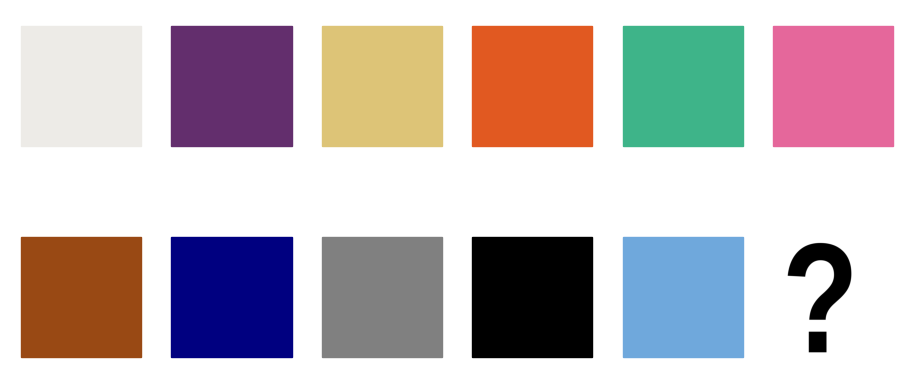
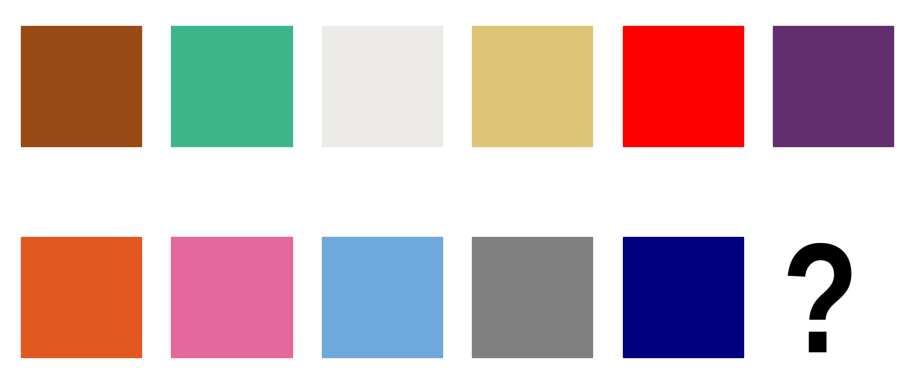
Added mobile semi-compatibility

diff --git a/templates/index.html b/templates/index.html
@@ -2,6 +2,7 @@
 <html>
 <head>
     <title>Album Colour Game</title>
+	
     <style>
         body {
     font-family: Arial, sans-serif;
@@ -330,11 +331,64 @@ button:hover {
     opacity: 1;
 }
 
+/* ===========================
+   Mobile / Small Screen Styles
+   =========================== */
+/* MOBILE STACKING */
+@media (max-width: 768px) {
+    .container {
+        flex-direction: column;
+        gap: 24px;
+        padding: 16px;
+    }
+
+    .sidebar, .main-column, .side-column {
+        flex: 1 1 100%;
+        max-width: 100%;
+        padding: 0;
+    }
+
+    .sidebar {
+        width: 100%;
+        border-right: none;
+        border-bottom: 1px solid #ddd;
+        margin-bottom: 16px;
+    }
+
+    #game-board,
+    .game img {
+        width: 100%;
+        max-width: 100%;
+        height: auto;
+    }
+
+    .album-side img {
+        width: 100%;
+        max-width: 250px;
+        height: auto;
+    }
+
+    input[type="text"], textarea, button {
+        width: 95%;
+    }
+
+    .main-column, .side-column {
+        margin-bottom: 24px;
+    }
+}
+@media (max-width: 768px) {
+    .sidebar {
+        background-image: url("/static/eras-mobile.jpg");
+		background-size: cover;
+		background-position: center;
+    }
+}
 
     </style>
 <body>
     <div class="container">
         <!-- Left column [sidebar] -->
+		<div class="left-column">
         <div class="sidebar" style="background-position: {{ side_bg_pos[0] }}% {{ side_bg_pos[1] }}%;">
 			<div class="sidebar-top">
 				<button class="sidebar-toggle" id="sidebarToggle">
@@ -365,7 +419,7 @@ button:hover {
 				</span>
 			</div>
 		</div>
-
+		</div>
 
         <!-- Middle column: title + game -->
         <div class="main-column">